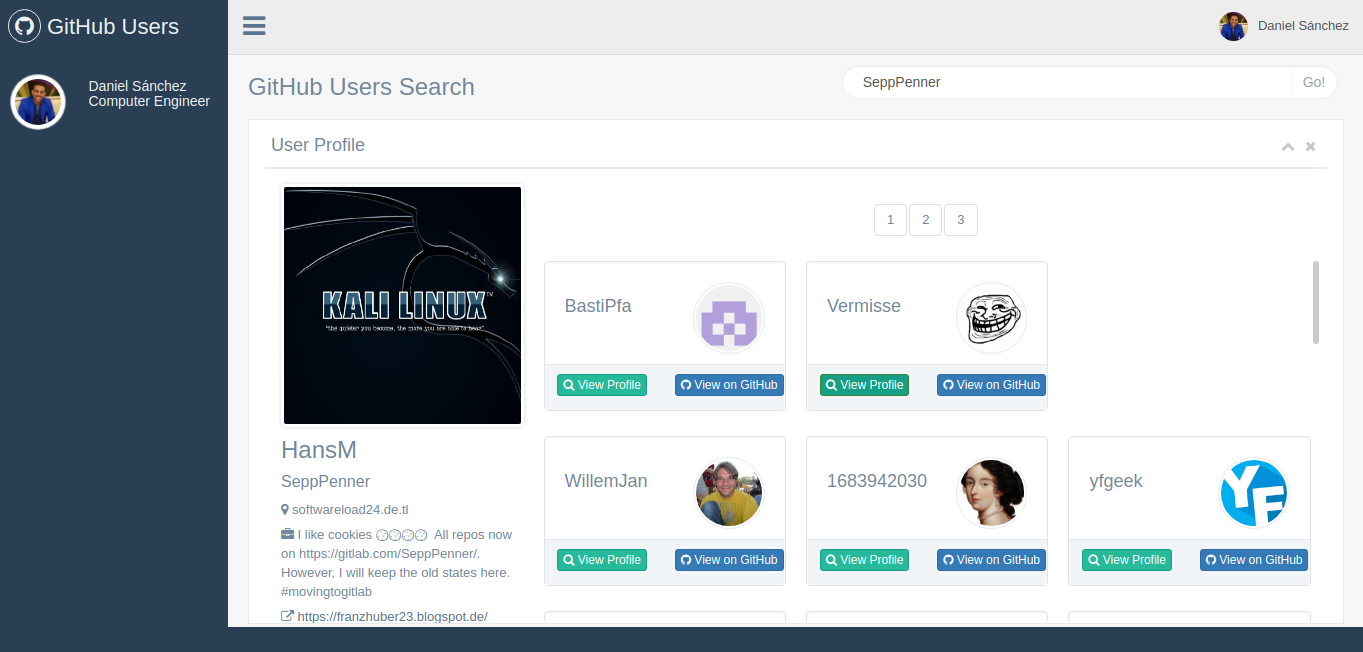
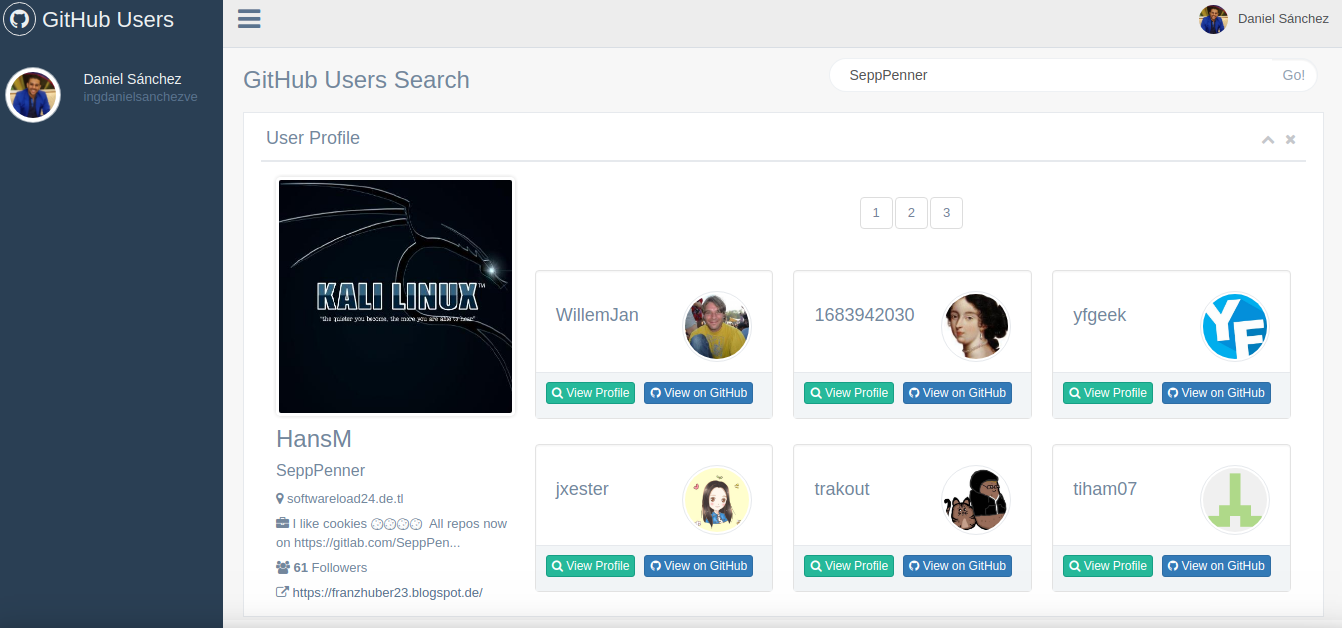
cc readme

diff --git a/README.md b/README.md
@@ -1,6 +1,6 @@
-# Raxua Frontend Coding Challenge Solution
+# Rauxa FE Coding Challenge Solution
 
-#### Raxua Frontend Coding Challenge Solution
+#### Rauxa FE Coding Challenge Solution
 
 ![screenshot_frontend](https://user-images.githubusercontent.com/42616141/44802244-36058200-ab89-11e8-84e8-5ecc03b4684e.png)
 
@@ -24,10 +24,12 @@ Depending on the number of followers of the user proceeds to perform the pager t
 
 In case the user has more than 300 followers, a button is added at the end of the pager to show the additional followers since in this way the interface is maintained.
 
-For each GitHub user their avatar, name, username, bio, location and url are displayed. ![user_profile](https://user-images.githubusercontent.com/42616141/44802344-77962d00-ab89-11e8-9c4e-62b3f5df2abb.png)
+For each GitHub user their avatar, name, username, bio, location and url are displayed.
+![user_profile](https://user-images.githubusercontent.com/42616141/44802344-77962d00-ab89-11e8-9c4e-62b3f5df2abb.png)
 
 
-Each followers is shown on a contact card where you can see your username, avatar and 2 buttons, one to perform the search of that user within the application and another to see the profile on the site. ![follower_card](https://user-images.githubusercontent.com/42616141/44802362-84b31c00-ab89-11e8-9381-5ee975e41f67.png)
+Each followers is shown on a contact card where you can see your username, avatar and 2 buttons, one to perform the search of that user within the application and another to see the profile on the site. 
+![follower_card](https://user-images.githubusercontent.com/42616141/44802362-84b31c00-ab89-11e8-9381-5ee975e41f67.png)
 
 ## Solution URL
 * Link to the hosted application. [Url](https://rauxa.ml)
@@ -44,7 +46,7 @@ Each Paginator item is created with an ```ng-repeat``` directive to show each pa
 
 
 #### Pagination for users with more than 30 followers
- ![screenshot_followers_pagination](https://user-images.githubusercontent.com/42616141/44802298-559caa80-ab89-11e8-81bc-e51db813d707.png)
+ ![screenshot_followers_pagination](https://user-images.githubusercontent.com/42616141/44802674-5b46c000-ab8a-11e8-8a4a-6a782855536c.png)
 
 
  #### Pagination for users with more than 300 followers with button to search more
